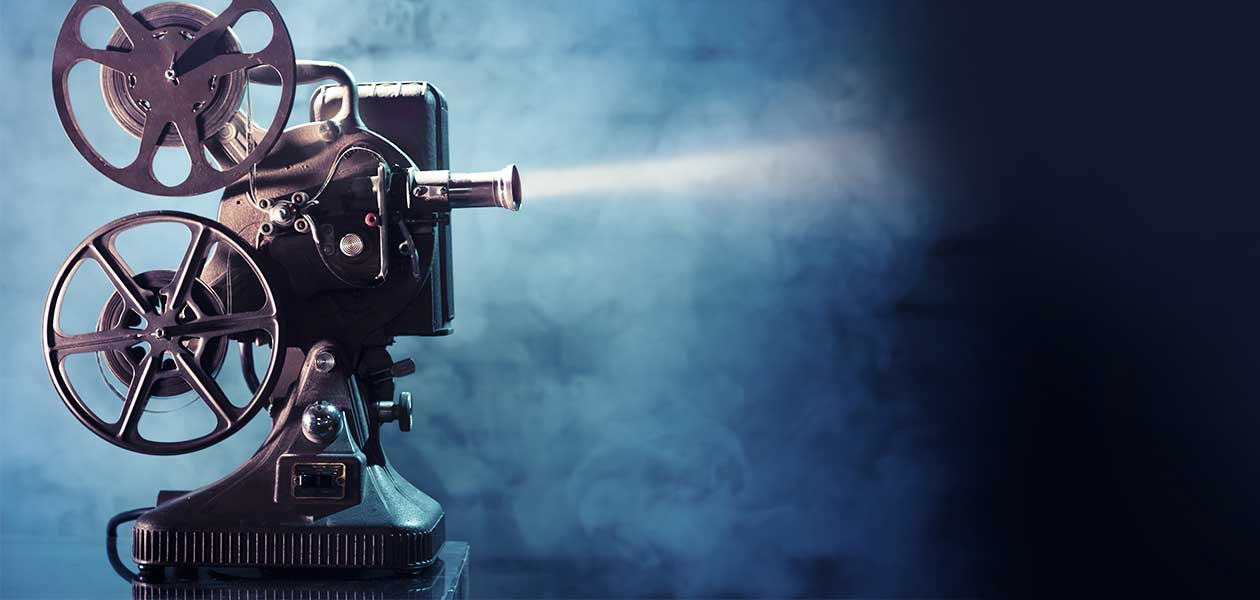
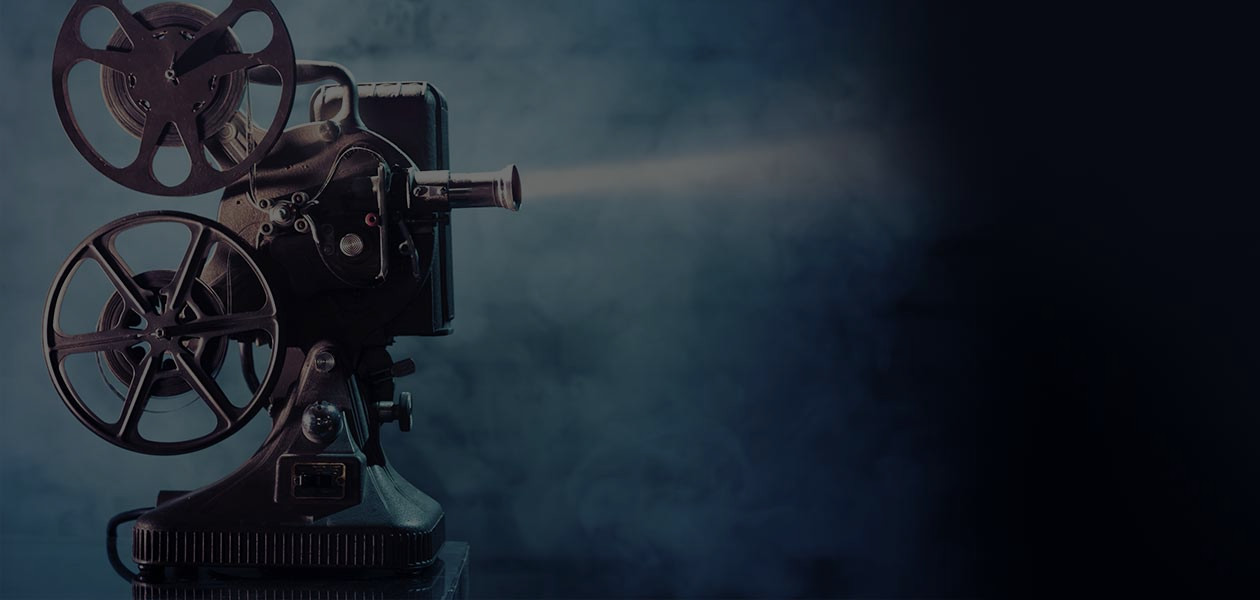
Add darker background, and on-hover tile effects.

diff --git a/src/components/HomePage/HomePage.jsx b/src/components/HomePage/HomePage.jsx
@@ -137,28 +137,22 @@ class HomePage extends Component {
 
           <Row>
             <Col sm="4">
-              <DarkBox>
-                <h3>Educators</h3>
-                <p>
-                  Browse curated classroom content and our library of related writings, videos, and other ephemera as it relates to the works and filmmakers in our catalog.
-                </p>
-              </DarkBox>
+              <DarkBox
+                header="Educator"
+                description="Browse curated classroom content and our library of related writings, videos, and other ephemera as it relates to the works and filmmakers in our catalog."
+              />
             </Col>
             <Col sm="4">
-              <DarkBox>
-                <h3>Students</h3>
-                <p>
-                  Learn about the history of our collection of films and filmmakers and how it relates the avant-garde and experimental filmmaking movements from 1921 to the present. 
-                </p>
-              </DarkBox>
+              <DarkBox
+                header="Students"
+                description="Learn about the history of our collection of films and filmmakers and how it relates the avant-garde and experimental filmmaking movements from 1921 to the present."
+              />
             </Col>
             <Col sm="4">
-              <DarkBox>
-                <h3>Curators</h3>
-                <p>
-                  Browse our curated programs, hand-picked by our staff and board, or explore the collection to curate your own program.
-                </p>
-              </DarkBox>
+              <DarkBox
+                header="Curators"
+                description="Browse our curated programs, hand-picked by our staff and board, or explore the collection to curate your own program."
+              />
             </Col>
           </Row>
 

diff --git a/src/components/EventTile/EventTile.jsx b/src/components/EventTile/EventTile.jsx
@@ -20,8 +20,6 @@ class EventTile extends Component {
 					eventLocation = this.eventLocationRef.current;
 		// ellipse-overflow rules:
 		// event name ellipses after 2 lines; location ellipses after 1 line
-		// debugger
-		console.log(eventName.lastChild, eventLocation.lastChild);
 		$clamp(eventName, { clamp: 2 });
 		$clamp(eventLocation, { clamp: 1 });
 	}
@@ -38,13 +36,13 @@ class EventTile extends Component {
 
 		const dateTime = new Date(startDateTime);
 		return (
-			<div className="EventTile">
+			<div className="EventTile on-hover">
 				<div className="banner">
 					<CalDay dateTime={dateTime} />
 					<PhotoFill src={photos[0]} height="100%" />
 				</div>
 				<div className="content">
-					<h4 ref={this.eventNameRef}>{name}</h4>
+					<h4 className="hover-effect" ref={this.eventNameRef}>{name}</h4>
 					<div ref={this.eventLocationRef} className="location">{location.name}</div>
 					<div><DateTimeString format="time" dateTime={dateTime} /></div>
 					<div><TicketPriceString price={ticketPrice} note={ticketNote} /></div>

diff --git a/src/components/NewsTile/NewsTile.jsx b/src/components/NewsTile/NewsTile.jsx
@@ -20,10 +20,10 @@ class NewsTile extends Component {
 		const { name, created, photo, author, link } = this.props;
 		const authorByline = author ? ` by ${author}` : null;
 		return (
-			<div className="NewsTile">
+			<div className="NewsTile on-hover">
 				<PhotoFill src={photo} height="202px" />
 				<div className="content">
-					<h4 ref={this.newsNameRef}>{name}</h4>
+					<h4 className="hover-effect" ref={this.newsNameRef}>{name}</h4>
 					<div>
 						<DateTimeString dateTime={created} format="long-date" />
 						{authorByline}

diff --git a/src/components/DarkBox/DarkBox.jsx b/src/components/DarkBox/DarkBox.jsx
@@ -1,4 +1,11 @@
 import React from 'react';
 import './DarkBox.css';
 
-export default ({children}) => <div className="DarkBox h-100">{children}</div>;
+export default ({header, description}) => (
+	<div className="DarkBox on-hover h-100">
+	  <h3 className="hover-effect">{header}</h3>
+	  <p>
+	    {description}
+	  </p>
+	</div>
+);

diff --git a/src/App.js b/src/App.js
@@ -3,7 +3,9 @@ import {
   BrowserRouter as Router,
   Route
 } from 'react-router-dom';
+
 import './App.css';
+import './utils/OnHover.css';
 
 import Head from './components/Head/Head';
 import HomePage from './components/HomePage/HomePage';

diff --git a/src/utils/highlightOnHover.js b/src/utils/highlightOnHover.js
@@ -1,0 +1,10 @@
+import React, { Component } from 'react';
+
+
+function highlightOnHover(element) {
+	
+}
+
+
+export default highlightOnHover;
+

diff --git a/src/utils/OnHover.css b/src/utils/OnHover.css
@@ -1,0 +1,3 @@
+.on-hover:hover .hover-effect {
+	color: var(--gold) !important;
+}
